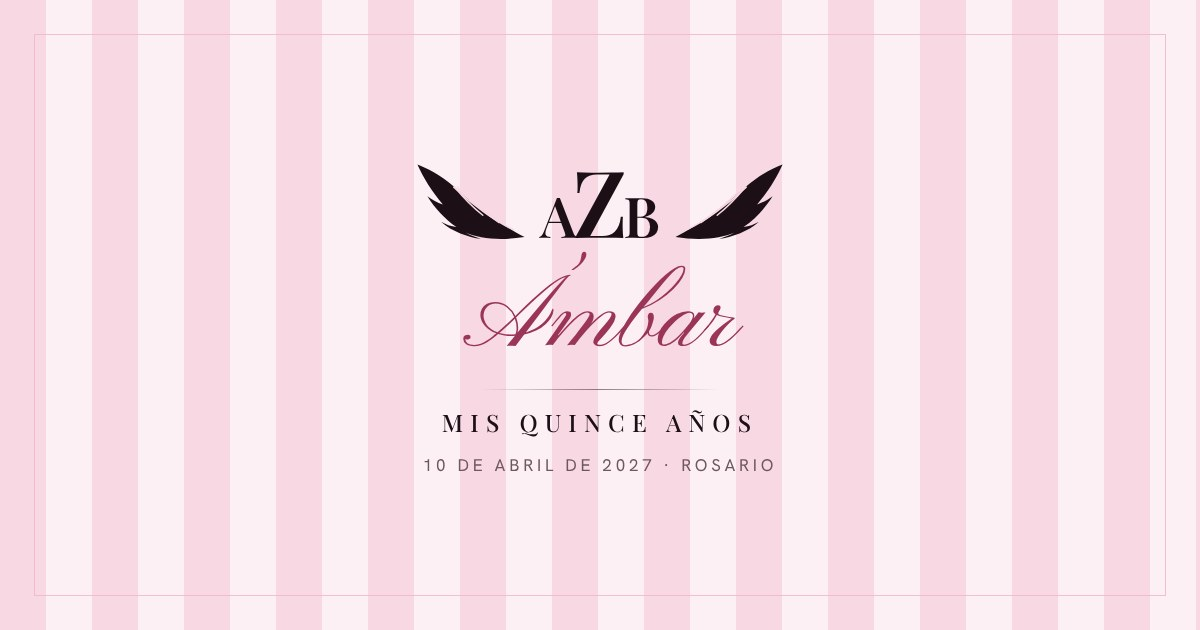
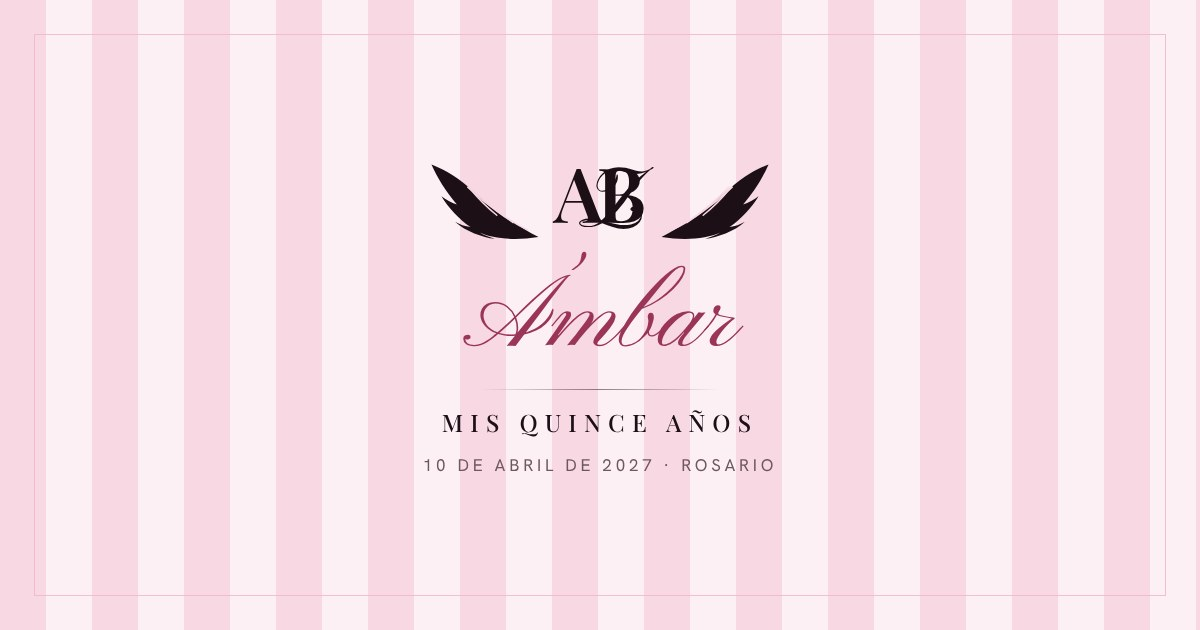
El monograma de la referencia: A y B entrelazadas, la Z de lazada (#43)
* mia15: el alias del regalo pasa a Aneley.1974

Lo cambió el dueño: la cuenta de los regalos es otra. Era
Ceci.montenegro.11.

El rótulo "Alias para transferir" queda igual y ahora hace falta
por dos motivos en vez de uno: Aneley.1974 también se lee como un
usuario de Instagram, y el dato llegó nombrado como "el cbu para
regalos" — no es un CBU, es un alias, y pegar un alias donde el
banco pide un CBU no entra. El que pega el dato equivocado manda
la plata de los invitados a cualquier parte.

El titular sigue vacío y vuelve a estar preguntado: la cuenta no
es la misma, así que el nombre que le va a mostrar el banco al
invitado tampoco tiene por qué serlo. Vacío no se dibuja, que es
lo correcto: un nombre inventado al lado de un alias es peor que
ninguno.

Verificado en el navegador, que es lo que el invitado pega en el
banco: en pantalla dice Aneley.1974, el botón copia Aneley.1974,
entra en su caja sin desbordar y el rótulo sigue arriba.
pruebas/invitacion_mirar.js mia15 da verde en los cuatro aparatos.

Claude-Session: https://claude.ai/code/session_01FpBBw9qZceprbd4ZqNaZCh

* Anotar cómo quiere que se trabaje: publicado, y sin detalle técnico

Dos cosas que dijo el 18/10/2026 y que valen para todo lo que venga:
que un pedido termina publicado y no "listo para publicar", y que el
informe va sin detalle de programación.

Lo primero cambia el flujo: hasta ahora cada cambio quedaba esperando
un "mandalo" suyo, que lo dejaba a él a cargo de apretar el botón. Lo
[…]

Changed region(s): [[0.3392, 0.2413, 0.6475, 0.3921]]

diff --git a/ambar15/index.html b/ambar15/index.html
@@ -255,7 +255,7 @@ svg.linea{fill:none;stroke:currentColor;stroke-width:1;
   transform:translateY(-22%) scale(var(--esc,2.6));
   opacity:0;
   transition:transform 1.25s var(--e),opacity 1s var(--e) .3s}
-.carta-mono{font-size:clamp(15px,4.2vw,20px);color:var(--negro)}
+.carta-mono{font-size:clamp(18px,5vw,24px);color:var(--negro)}
 .carta-nom{font-family:var(--titulos);font-weight:500;
   font-size:clamp(11.5px,3.2vw,15px);letter-spacing:.1em;text-transform:uppercase;
   color:var(--negro);line-height:1.25}
@@ -280,25 +280,28 @@ svg.linea{fill:none;stroke:currentColor;stroke-width:1;
 .tapa-frente i.f1{clip-path:polygon(0 100%,50% 0,0 0);background:rgba(255,255,255,.1)}
 .tapa-frente i.f2{clip-path:polygon(100% 100%,50% 0,100% 0);background:rgba(154,70,96,.1)}
 
-/* ── EL LACRE ── dorado, con el monograma adentro. Es lo único que hay
-   que tocar en toda la pantalla, así que no puede ser rosa sobre un
-   sobre rosa: en la referencia es dorado y acá además le queda —se
-   llama Ámbar—. El monograma en tinta sobre el dorado da 5,9:1. */
+/* ── EL LACRE ── de ORO ROSA, con el monograma adentro, que es el
+   metal de la referencia que eligió el dueño. Es lo único que hay que
+   tocar en toda la pantalla, así que no puede ser rosa pálido sobre un
+   sobre rosa: el lacre es el punto más saturado de la pantalla.
+   El monograma va en cobre hondo y da 4,8:1 sobre el metal — y eso
+   hay que calcularlo a mano, porque el medidor NO juzga lo que cae
+   sobre un degradé opaco de punta a punta: lo saltea y da verde. */
 .tapa-mandos{position:absolute;left:0;right:0;top:76%;transform:translateY(-50%);z-index:6;
   display:grid;place-items:center;transition:opacity .3s var(--e)}
 #sobre.abierto .tapa-mandos{opacity:0;pointer-events:none}
 #abrir{position:relative;display:grid;place-items:center;width:62px;height:62px;border-radius:50%;
-  background:radial-gradient(circle at 34% 28%,#F0D08A,#C9972F 58%,#9A6E18);
-  box-shadow:0 12px 26px -8px rgba(28,16,22,.45),inset 0 1px 2px rgba(255,255,255,.4);
-  color:var(--tinta);transition:transform .45s var(--e)}
-#abrir .azb{font-size:23px}
+  background:radial-gradient(circle at 34% 28%,#F6D5C6,#DA9E85 48%,#A85F45);
+  box-shadow:0 12px 26px -8px rgba(28,16,22,.45),inset 0 1px 2px rgba(255,255,255,.5);
+  color:#5A2B1C;transition:transform .45s var(--e)}
+#abrir .azb{font-size:29px}
 #abrir:active{transform:scale(.95)}
 @media (hover:hover){ #abrir:hover{transform:scale(1.06)} }
 /* El latido va en un HALO alrededor y no en el botón: moviendo la caja
    que se toca, el navegador la da por "inestable" y una prueba se
    cuelga treinta segundos contra un botón que está perfecto. */
 #abrir:after{content:'';position:absolute;inset:-7px;border-radius:50%;
-  border:1px solid #9A6E18;opacity:0;animation:latir 3s ease-out infinite}
+  border:1px solid #A85F45;opacity:0;animation:latir 3s ease-out infinite}
 @keyframes latir{0%{opacity:.5;transform:scale(1)}70%,100%{opacity:0;transform:scale(1.18)}}
 
 /* El lacre se PARTE: dos mitades que se separan, giran y se caen.
@@ -310,7 +313,7 @@ svg.linea{fill:none;stroke:currentColor;stroke-width:1;
 #sobre.abierto .quiebre{opacity:1}
 .quiebre .sello{position:relative;width:62px;height:62px}
 .quiebre .sello i{position:absolute;inset:0;border-radius:50%;
-  background:radial-gradient(circle at 34% 28%,#F0D08A,#C9972F 58%,#9A6E18);
+  background:radial-gradient(circle at 34% 28%,#F6D5C6,#DA9E85 48%,#A85F45);
   box-shadow:0 10px 22px -10px rgba(28,16,22,.5)}
 /* El filo del medio va quebrado, no recto: un sello partido al medio
    con una regla no parece lacre, parece una moneda. */
@@ -327,7 +330,7 @@ svg.linea{fill:none;stroke:currentColor;stroke-width:1;
    lo único de toda la pieza que dura menos de medio segundo, y es el
    remate del gesto. */
 .quiebre .polvo{position:absolute;left:50%;top:50%;width:4px;height:4px;margin:-2px 0 0 -2px;
-  border-radius:50%;background:#C9972F;opacity:0}
+  border-radius:50%;background:#C98B74;opacity:0}
 #sobre.abierto .quiebre .polvo{animation:chispear .72s ease-out forwards}
 @keyframes chispear{
   0%{opacity:0;transform:translate(0,0) scale(.4)}
@@ -337,27 +340,34 @@ svg.linea{fill:none;stroke:currentColor;stroke-width:1;
 .sobre-pie b{color:var(--acento-ti);font-weight:400}
 
 /* ══════════ EL MONOGRAMA AZB ══════════
-   Lo pidió el dueño con todas las letras: "hacé un juego con las
-   iniciales de la quinceañera y que parezca el logo de Victoria's
-   Secret; las iniciales son AZB". Son SUS iniciales —Ámbar Zoe
-   Balbi—, no la V y la S de una marca registrada: eso último es lo
-   que este archivo ya tenía prohibido y sigue prohibido.
-   SE ELIGIÓ MIRANDO, no describiendo: se montaron doce armados a 72,
-   34 y 20 píxeles y adentro del lacre, y se eligió el que se lee en
-   los cuatro. Lo que no funciona —y había que verlo para saberlo— es
-   SOLAPAR tres capitulares de una didona: el logo de VS son DOS
-   letras y por eso puede entrelazarlas; con tres, la del medio se la
-   come la de al lado y a 20px queda una mancha.
-   Lo que sí funciona es la ESCALA: la Z al 122% entre una A y una B
-   al 74%, tocándose apenas. A 20px se sigue leyendo AZB.
+   Son SUS iniciales —Ámbar Zoe Balbi—, no la V y la S de una marca
+   registrada: eso último es lo que este archivo ya tenía prohibido y
+   sigue prohibido.
+   LA FORMA LA ELIGIÓ EL DUEÑO MIRANDO, con una referencia: una A y
+   una B de didona ENTRELAZADAS, con una lazada cruzando por el medio.
+   Y eso corrige lo que este comentario decía antes. Acá estaba
+   escrito que solapar tres capitulares no se lee —y es cierto, se
+   midió—, pero la conclusión estaba de más: lo que no se lee son
+   tres capitulares DE LA MISMA DIDONA, porque las tres pelean por el
+   mismo peso. Con la Z en la MANUSCRITA, la del medio deja de ser una
+   capitular y pasa a ser la lazada: la A y la B se entrelazan como en
+   la referencia y la Z las cose, sin taparse.
+   Verificado mirando los cuatro tamaños que importan —96, 40 y 22
+   píxeles y adentro del lacre— y en los dos acabados: oro rosa sobre
+   el lacre y NEGRO al pie de la invitación, que es como lo pidió.
    Va como TEXTO y no como dibujo, así que el medidor de contraste lo
    mide de verdad: dibujado en un SVG sin color propio informaría
    1,00:1 y tendría razón según lo que mide. */
 .azb{display:inline-flex;align-items:baseline;line-height:1;
   font-family:var(--titulos);font-weight:600;letter-spacing:0;color:inherit}
 .azb i{font-style:normal;display:block}
-.azb i:nth-child(1),.azb i:nth-child(3){font-size:.74em}
-.azb i:nth-child(2){font-size:1.22em;margin:0 -.05em}
+/* La B se mete DENTRO de la A: es el entrelazado de la referencia, no
+   dos letras una al lado de la otra. */
+.azb i.b{margin-left:-.30em}
+/* Y la Z es la lazada que las cruza. En la manuscrita, no en la
+   didona: ahí deja de competir con las otras dos. */
+.azb i.z{font-family:var(--escrita);font-weight:400;font-size:1.15em;
+  margin:0 -.30em;position:relative;top:.04em}
 
 /* ══════════ el lienzo ══════════ */
 #papel{position:relative;z-index:1}
@@ -839,6 +849,13 @@ h2{font-family:var(--titulos);font-weight:500;line-height:1.08;
 
 /* ══════════ 7 · el cierre ══════════ */
 #cierre{padding-bottom:clamp(50px,8vh,80px)}
+/* La marca del final. Va en el NEGRO de la pieza y no en el metal:
+   el oro rosa del lacre sobre este papel da 2,2:1 y no se leería. */
+.marca-pie{justify-content:center;font-size:clamp(46px,13vw,64px);
+  color:var(--negro);margin-bottom:clamp(8px,1.6vh,14px)}
+.marca-pie-nom{font-family:var(--titulos);font-weight:500;
+  font-size:clamp(9.5px,2.6vw,11.5px);letter-spacing:.34em;
+  text-transform:uppercase;color:var(--gris);margin-bottom:clamp(20px,3.4vh,30px)}
 .cierre-n{font-family:var(--titulos);font-style:italic;font-weight:400;
   font-size:clamp(50px,16vw,80px);color:var(--negro);line-height:1;margin-top:20px}
 .firma{margin-top:36px;font-size:10px;letter-spacing:.3em;text-transform:uppercase;
@@ -948,7 +965,7 @@ h2{font-family:var(--titulos);font-weight:500;line-height:1.08;
       <div class="solapa" aria-hidden="true"></div>
       <div class="tapa-cuerpo" aria-hidden="true"></div>
       <div class="carta">
-        <span class="azb carta-mono"><i>A</i><i>Z</i><i>B</i></span>
+        <span class="azb carta-mono"><i>A</i><i class="z">Z</i><i class="b">B</i></span>
         <p class="carta-nom" id="cartaNom"></p>
         <i class="hilito" aria-hidden="true"></i>
         <p class="carta-txt">mis quince años</p>
@@ -957,7 +974,7 @@ h2{font-family:var(--titulos);font-weight:500;line-height:1.08;
       <div class="tapa-frente" aria-hidden="true"><i class="f1"></i><i class="f2"></i></div>
       <div class="tapa-mandos">
         <button id="abrir" type="button" aria-label="Abrir la invitación">
-          <span class="azb" aria-hidden="true"><i>A</i><i>Z</i><i>B</i></span>
+          <span class="azb" aria-hidden="true"><i>A</i><i class="z">Z</i><i class="b">B</i></span>
         </button>
       </div>
       <div class="quiebre" aria-hidden="true">
@@ -1064,7 +1081,7 @@ h2{font-family:var(--titulos);font-weight:500;line-height:1.08;
         <div class="bolsa-cuerpo rayado">
           <p class="bolsa-marca">
             <svg class="ala izq" viewBox="0 0 130 92" aria-hidden="true"><use href="#alaAzb"/></svg>
-            <span class="azb"><i>A</i><i>Z</i><i>B</i></span>
+            <span class="azb"><i>A</i><i class="z">Z</i><i class="b">B</i></span>
             <svg class="ala der" viewBox="0 0 130 92" aria-hidden="true"><use href="#alaAzb"/></svg>
           </p>
 
@@ -1174,11 +1191,19 @@ h2{font-family:var(--titulos);font-weight:500;line-height:1.08;
   </section>
 
   <!-- ══════════ 9 · el cierre ══════════ -->
-  <section class="seccion claro arco" id="cierre" data-ico="destello">
+  <!-- El cierre NO lleva medallón: la marca del final ES su emblema, y
+       dos emblemas apilados se leen como un error de maqueta. -->
+  <section class="seccion claro arco" id="cierre">
     <div class="caja">
-      <div class="filete ap"><i></i><b></b><i></i></div>
-      <p class="cierre-n ap d1 elNom"></p>
-      <p class="cuerpo ap d2" id="teEspero"></p>
+      <!-- La marca EN NEGRO al final, como la pidió el dueño con la
+           segunda referencia: el monograma centrado y el nombre
+           abajo, chiquito y espaciado. Acá no lleva metal —sobre el
+           papel claro el oro rosa da 2,2:1, o sea que no estaría—. -->
+      <p class="azb marca-pie ap"><i>A</i><i class="z">Z</i><i class="b">B</i></p>
+      <p class="marca-pie-nom ap d1" id="pieNombre"></p>
+      <div class="filete ap d1"><i></i><b></b><i></i></div>
+      <p class="cierre-n ap d2 elNom"></p>
+      <p class="cuerpo ap d3" id="teEspero"></p>
     </div>
   </section>
 
@@ -1772,6 +1797,8 @@ function horaTexto(){
      donde está el nombre, y el segundo es el que se queda viejo. */
   const cn = $('#cartaNom');
   if (cn) cn.textContent = CONFIG.nombreCompleto || CONFIG.quien || '';
+  const pn = $('#pieNombre');
+  if (pn) pn.textContent = CONFIG.nombreCompleto || CONFIG.quien || '';
   const cfe = $('#cartaFecha');
   if (cfe && F) cfe.textContent = String(F.dia).padStart(2,'0') + ' · ' +
                                   String(F.mes).padStart(2,'0') + ' · ' + F.anio;

diff --git a/CLAUDE.md b/CLAUDE.md
@@ -4230,18 +4230,52 @@ logo de Victoria's Secret; las iniciales son AZB"*.
 **El monograma se eligió MIRANDO, no describiendo**, que es la misma
 regla ya escrita para la tipografía y para la bolsa de los iconos. Se
 montaron doce armados a 72, 34 y 20 píxeles y adentro del lacre, y se
-eligió el que se lee en los cuatro tamaños. Lo que NO funciona —y había
-que verlo para saberlo— es **solapar tres capitulares de una didona**:
-el logo de VS son DOS letras y por eso puede entrelazarlas; con tres,
-la del medio se la come la de al lado y a 20px queda una mancha. Lo que
-sí funciona es la **escala**: la Z al 122% entre una A y una B al 74%,
-tocándose apenas.
+eligió el que se lee en los cuatro tamaños: la Z al 122% entre una A y
+una B al 74%, tocándose apenas. Y la conclusión que se sacó de ahí
+—*"solapar tres capitulares de una didona no se lee"*— era cierta a
+medias, y el dueño lo destapó con una referencia.
 **Son SUS iniciales**, no la V y la S de una marca registrada: eso
 último sigue prohibido y por el mismo motivo de siempre —una invitación
 publicada con el logo de otro es un problema nuestro, no de la clienta.
 Y va como **texto y no como dibujo**, así que el medidor de contraste
 lo mide de verdad: dibujado en un SVG sin color propio informaría
 1,00:1 y tendría razón según lo que mide.
+
+##### Y después mandó el logo que quería, y la conclusión estaba a medias
+
+*"Prefiero este logo en vez del que hiciste. Ponerlo como la cera de la
+carta y al final de la invitación así en negro como en la segunda
+foto."* La referencia es una **A y una B de didona ENTRELAZADAS**, con
+una lazada caligráfica cruzando por el medio, en oro rosa.
+
+Acá arriba estaba escrito que con tres letras no se puede entrelazar, y
+**lo medido era verdad pero la conclusión sobraba**: lo que no se lee
+son tres capitulares **de la misma didona**, porque las tres pelean por
+el mismo peso y la del medio se la come la de al lado. Con la Z en la
+**manuscrita** —la Pinyon, que ya estaba cargada para el nombre— la del
+medio deja de ser una capitular y pasa a ser la LAZADA: la A y la B se
+entrelazan como en la referencia y la Z las cose, sin taparse. Se
+probaron cuatro armados y se eligió mirando, igual que la vez anterior.
+
+**La lección, que es nueva**: una medición dice que algo *no funcionó*,
+no que *no se puede*. La primera vuelta probó doce variantes de un solo
+camino —tres capitulares de la misma familia— y escribió la conclusión
+como si cubriera todos. El camino que faltaba lo señaló el dueño con una
+imagen en dos segundos.
+
+**El lacre pasó a ser de ORO ROSA**, que es el metal de la referencia
+—y le queda, porque se llama Ámbar—, con el monograma en cobre hondo
+encima (4,8:1). Ese número **hay que calcularlo a mano**: el medidor no
+juzga lo que cae sobre un degradé opaco de punta a punta, así que ahí
+da verde mire lo que mire.
+
+**Y al final de la invitación va la misma marca en NEGRO**, con el
+nombre completo abajo en versalitas espaciadas, que es la segunda
+referencia. Sobre el papel claro el oro rosa da 2,2:1 —no estaría—, así
+que ahí la marca es tinta: *si un bloque trae su propio fondo, trae su
+propia tinta*, enésima vez.
+**Y el cierre perdió su medallón**: la marca ES su emblema, y dos
+emblemas apilados se leen como un error de maqueta.
 
 **El sobre es el de la captura: abierto, con la carta asomando, las
 alas a los costados y el lacre dorado.** Y eso NO contradice lo que ya
